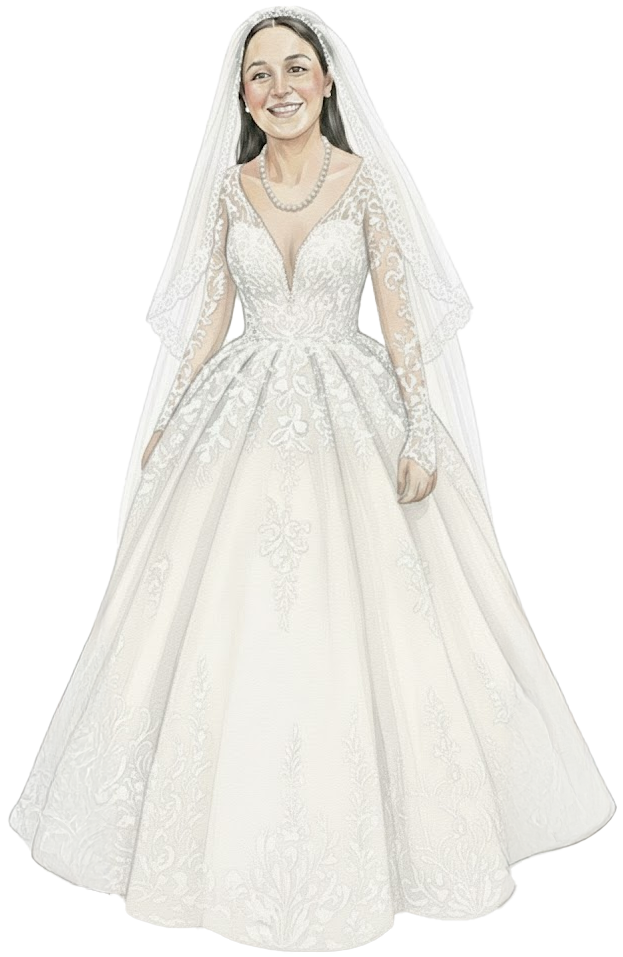
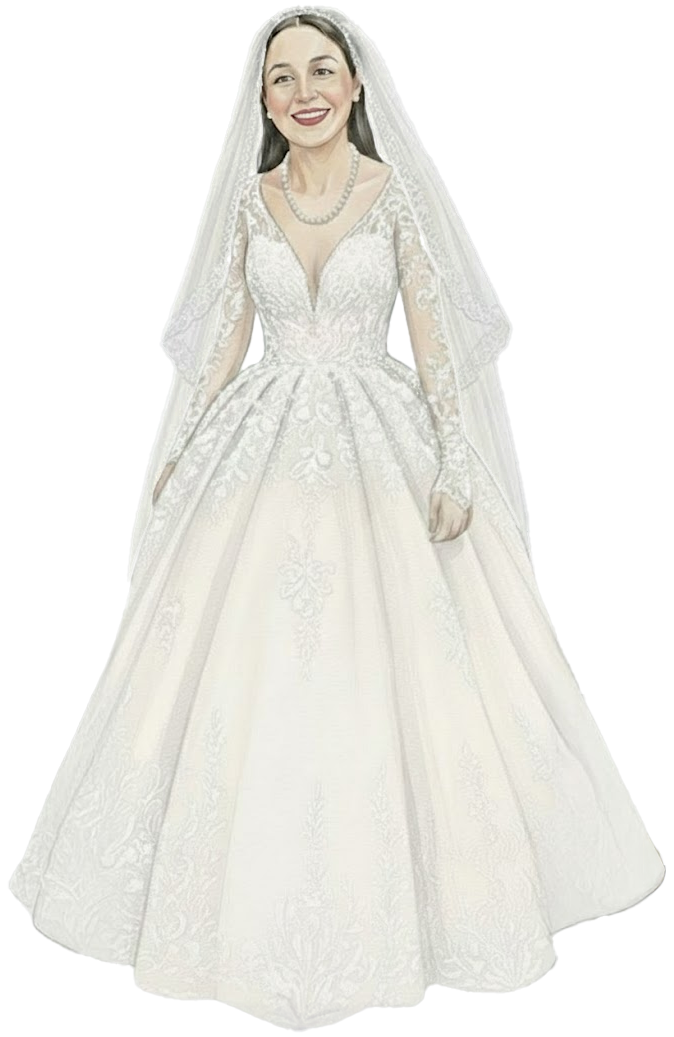
feat: add interactive cat alerts

diff --git a/src/components/ParallaxPhoto.tsx b/src/components/ParallaxPhoto.tsx
@@ -277,6 +277,10 @@ const ParallaxPhoto: React.FC = () => {
                     <motion.img
                         src="/designs/gato1.png"
                         alt="Gato 1"
+                        onClick={(e) => {
+                            e.stopPropagation()
+                            alert('🐈 PRRRRR')
+                        }}
                         style={{
                             position: 'absolute',
                             bottom: '0',
@@ -293,6 +297,10 @@ const ParallaxPhoto: React.FC = () => {
                     <motion.img
                         src="/designs/gato0.png"
                         alt="Gato 0"
+                        onClick={(e) => {
+                            e.stopPropagation()
+                            alert('🐱 MEOW')
+                        }}
                         style={{
                             position: 'absolute',
                             bottom: '0',
